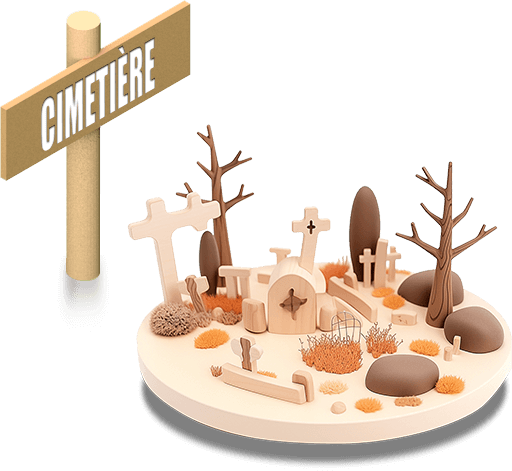
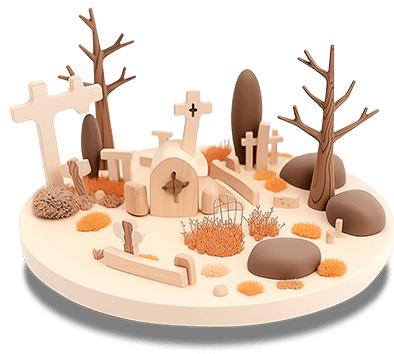
cimetiere

diff --git a/assets/js/data/cities.js b/assets/js/data/cities.js
@@ -97,8 +97,8 @@ export const CITIES = [
         src: '/assets/images/cities/cimetiere-du-nft.png',
         x: 400,
         y: 800,
-        srcWidth: 512,
-        srcHeight: 471,
+        srcWidth: 394,
+        srcHeight: 354,
         html: "<p>FTX, Terra et Luna, Celsius, 3 Arrows Capital, c’est ici que l’on commémore les morts au front. Parce qu’il ne faudrait pas croire que la cryptolife est un long fleuve tranquille ! Il y a des hauts, très hauts, aussi hauts qu’une immense pyramide de Ponzi, et des bas, très bas, comme une faillite.</p><blockquote>Qui aurait pu prédire la crise cryptographique ?</blockquote><p>Mais n'ayez aucune crainte, la technologie est si formidable qu'on pourra certainement ressusciter les morts. Bientôt... Il faut penser à long-terme.</p>"
     }
 ];
